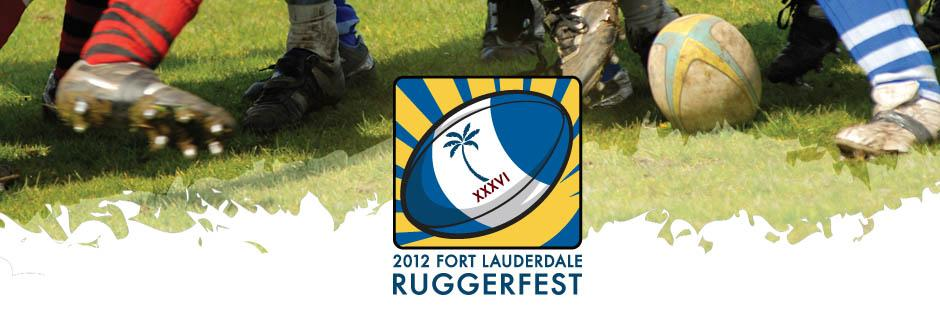
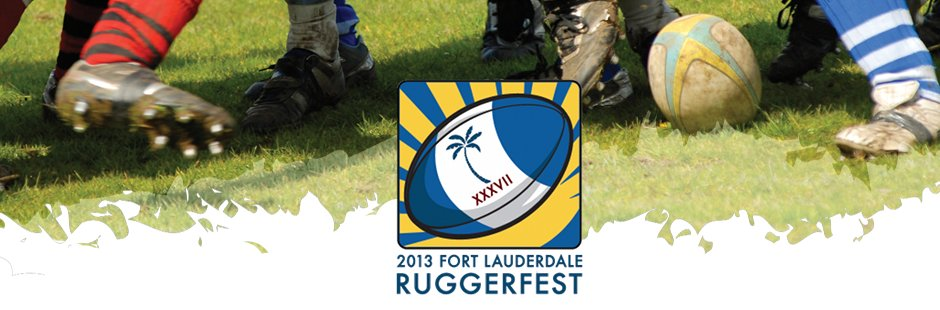
Updated text and graphics to Ruggerfest 2013. Changed copyright on pages. Re-enabled registration.

Changed region(s): [[0.3702, 0.1452, 0.6479, 0.9581]]

diff --git a/rf/templates/register.html b/rf/templates/register.html
@@ -12,14 +12,116 @@
 <div class="container">
     <div class="content">
         <div class="page-header">
-            <h1>Ruggerfest 2012 registration is now closed.</h1>
-            <h2>Please come back later this year and register for 2013.</h2>
+            <h1>Ruggerfest 2013 Registration</h1>
         </div>
         <div class="row">
+            <div class="span16">
+                {% if form.errors %}
+                <div class="alert-message error">
+                    <a class="close" href="#">&times;</a>
+                    <p><strong>Oh snap!</strong> There are some errors below</p>
+                    <!-- for debugging
+                    <p>{{form.errors}}</p>
+                    -->
+                </div>
+                {% endif %}
+                <form action="/register/" method="post">
+                    {% csrf_token %}
+
+                    <fieldset>
+                        <legend>Team Information</legend>
+
+                        <div class="clearfix {% if form.teamname.errors %} error {% endif %}">
+                            <label for="xlInput {% if form.teamname.errors %} errorInput {% endif %}">{{form.teamname.label}}</label>
+                            <div class="input">
+                                {% if form.teamname.errors %}
+                                    <div class="error">
+                                        {{ form.teamname }}
+                                    </div>
+                                {% else %}
+                                    {{ form.teamname }}
+                                {% endif %}
+
+                                {% if form.teamname.errors %}
+                                    <span class="help-inline">{{ form.teamname.help_text }}</span>
+                                {% endif %}
+                            </div>
+                        </div><!-- /clearfix -->
+
+                        <div class="clearfix">
+                            <label for="normalSelect">{{form.division.label}}</label>
+                            <div class="input">
+                                {{ form.division }}
+                            </div>
+                        </div><!-- /clearfix -->
+
+                        <div class="clearfix {% if form.captain.errors %} error {% endif %}">
+                            <label for="xlInput {% if form.captain.errors %} errorInput {% endif %}">{{form.captain.label}}</label>
+                            <div class="input">
+                                {% if form.captain.errors %}
+                                    <div class="error">
+                                        {{ form.captain }}
+                                    </div>
+                                {% else %}
+                                    {{ form.captain }}
+                                {% endif %}
+
+                                {% if form.captain.errors %}
+                                    <span class="help-inline">{{ form.captain.help_text }}</span>
+                                {% endif %}
+                            </div>
+                        </div><!-- /clearfix -->
+
+                        <div class="clearfix {% if form.email.errors %} error {% endif %}">
+                            <label for="xlInput {% if form.email.errors %} errorInput {% endif %}">
+                                {{form.email.label}}
+                            </label>
+                            <div class="input">
+                                {% if form.email.errors %}
+                                    <div class="error">
+                                        {{ form.email }}
+                                    </div>
+                                {% else %}
+                                    {{ form.email }}
+                                {% endif %}
+
+                                {% if form.email.errors %}
+                                    <span class="help-inline">{{ form.email.help_text }}</span>
+                                {% endif %}
+                            </div>
+                        </div><!-- /clearfix -->
+
+                        <div class="clearfix {% if form.phone_number.errors %} error {% endif %}">
+                            <label for="xlInput {% if form.phone_number.errors %} errorInput {% endif %}">
+                                {{form.phone_number.label}}
+                            </label>
+                            <div class="input">
+                                {% if form.phone_number.errors %}
+                                    <div class="error">
+                                        {{ form.phone_number }}
+                                    </div>
+                                {% else %}
+                                    {{ form.phone_number }}
+                                {% endif %}
+
+                                {% if form.phone_number.errors %}
+                                    <span class="help-inline">{{ form.phone_number.help_text }}</span>
+                                {% endif %}
+                            </div>
+                        </div><!-- /clearfix -->
+
+                        <div class="actions">
+                            <input type="submit" class="btn primary" value="Submit">&nbsp;<button type="reset" class="btn"
+                                >Clear</button>
+                        </div>
+
+                    </fieldset>
+                </form>
+            </div> <!-- span16 -->
         </div> <!-- row -->
     </div> <!-- content -->
     <footer>
-    <p>&copy; Fort Lauderdale Rugby Football Club 2011-2012</p>
+    <p>&copy; Fort Lauderdale Rugby Football Club</p>
     </footer>
 </div> <!-- /container -->
 

diff --git a/rf/templates/home.html b/rf/templates/home.html
@@ -12,9 +12,9 @@
             <div class="span9">
                 <div class="brown">
                     <div class="white">
-                        <h3>ABOUT RUGGERFEST 2012</h3>
+                        <h3>ABOUT RUGGERFEST 2013</h3>
                         <div class="boxtext">
-                            The 36th Annual Ruggerfest is attracting international teams and the best competition in the United States. Ruggerfest features mens club and premier, women’s club, men and women’s collegiate, old boys, touch and high school rugby. Why play rugby in the cold? Come to sunny Florida for a weekend of rugby and a swim at the beach.
+                            The 37th Annual Ruggerfest is attracting international teams and the best competition in the United States. Ruggerfest features mens club and premier, women’s club, men and women’s collegiate, old boys, touch and high school rugby. Why play rugby in the cold? Come to sunny Florida for a weekend of rugby and a swim at the beach.
                         </div>
                     </div>
                     <br/>
@@ -25,11 +25,12 @@
                     <div class="white">
                         <div class="boxtext">
                             <ul>
-                                <li>International Touring Sides</li>
-                                <li>Men’s Premiere Exhibition Game</li>
-                                <li>HS Exhibition Games</li>
-                                <li>International Touch Tournament</li>
-                                <li>Best Rugby Social on the East Coast!!!</li>
+				<li>International Touring Side</li>
+				<li>Men's Premiere Exhibition Game</li>
+				<li>Old Boys Championship</li> 
+				<li>Boys &amp; Girls HS Ruggerfest Challenge</li>
+				<li>International Touch Tournament</li>
+				<li>Excellent Rugby Social!</li>
                             </ul>
                         </div>
                     </div>
@@ -40,7 +41,7 @@
                     <br/>
                     <div class="white">
                         <div class="boxtext">
-                            <strong>February 25 and 26th 2012.</strong> Central Broward Regional Park.
+                            <strong>February 22-24th 2013.</strong> Central Broward Regional Park.
                             3700 North West 11th Place, Lauderhill, Florida 33311.
                         </div>
                         <div class="boxtext">
@@ -81,8 +82,8 @@
                         <h3>ADDITIONAL LINKS / INFO</h3>
                         <div class="boxtext">
                             <ul>
-                                <li>Questions about registration? Contact <a href="mailto:michelle@peytonbolin.com">michelle@peytonbolin.com</a>.</li>
-                                <li>Interested in sponsoring? Contact <a href="mailto:jane@peytonbolin.com">jane@peytonbolin.com</a>.</li>
+                                <li>Registration questions? Contact <a href="mailto:janefbolin@me.com">janefbolin@me.com</a>.</li>
+                                <li>Interested in sponsoring? Contact <a href="mailto:janefbolin@me.com">janefbolin@me.com</a>.</li>
                                 <li>General questions about the tournament? Contact <a href="mailto:toby@ftlrugby.com">toby@ftlrugby.com</a>.</li>
                             </ul>
                         </div>
@@ -98,7 +99,7 @@
                             <div class="reglink">
                                 <a href="/register/">
                                     <p>CLICK HERE TO REGISTER NOW!</p>
-                                    <p>$50 discount if two or more teams enter from a club. Fees increase by $100 after Feb 15th, 2012.</p>
+                                    <p>$50 discount if two or more teams enter from a club. Fees increase by $100 after Feb 1st, 2013.</p>
                                 </a>
                             </div>
                         </div>
@@ -108,7 +109,7 @@
         </div> <!-- row -->
     </div>
     <footer>
-    <p>&copy; Fort Lauderdale Rugby Football Club 2011-2012</p>
+    <p>&copy; Fort Lauderdale Rugby Football Club</p>
     </footer>
 </div> <!-- /container -->
 

diff --git a/rf/templates/brackets.html b/rf/templates/brackets.html
@@ -12,16 +12,23 @@
 <div class="container">
     <div class="content">
         <div class="page-header">
-            <h1>Ruggerfest 2012 Brackets</h1>
+            <h1>Ruggerfest 2013 Brackets</h1>
         </div>
         <div class="row">
             <div class="span16">
-                <img src="/staticfiles/images/ruggerfest_2012_brackets.jpg" alt="">
+                <div class="brown">
+            	    <div class="white">
+                        <h3>Ruggerfest 2013 Brackets</h3>
+            	        <div class="boxtext">
+	                    Brackets will be updated as teams enter. Please check back periodically for the updated bracket schedule. Brackets include: Premier Men, Club Men, Women's Club, Collegiate Men & Women (if enough teams register in advance), Old Boys Championship Over 40, Over 50 and Over 55.  Old Boys Championship begin play on Friday night and finishes on Saturday evening. All other brackets play Saturday and Sunday.
+            	        </div> <!-- boxtext -->
+            	    </div> <!-- white -->
+            	</div> <!-- brown -->
             </div> <!-- span16 -->
         </div> <!-- row -->
     </div> <!-- content -->
     <footer>
-    <p>&copy; Fort Lauderdale Rugby Football Club 2011-2012</p>
+    <p>&copy; Fort Lauderdale Rugby Football Club</p>
     </footer>
 </div> <!-- /container -->
 

diff --git a/rf/templates/paypal.html b/rf/templates/paypal.html
@@ -12,7 +12,7 @@
 <div class="container">
     <div class="content">
         <div class="page-header">
-            <h1>Ruggerfest 2012 Registration Payment</h1>
+            <h1>Ruggerfest 2013 Registration Payment</h1>
         </div>
         <div class="row">
             <div class="span16">
@@ -48,7 +48,7 @@
 
 <form action="https://www.paypal.com/cgi-bin/webscr" method="post">
     <input type="hidden" name="cmd" value="_s-xclick">
-    <input type="hidden" name="hosted_button_id" value="6KSZSZ5AM874A">
+    <input type="hidden" name="hosted_button_id" value="EUC7XZQDYD8GE">
     <div class="input">
         <input type="hidden" name="on0" value="Division">
         <select name="os0">
@@ -86,7 +86,7 @@
         </div> <!-- row -->
     </div> <!-- content -->
     <footer>
-    <p>&copy; Fort Lauderdale Rugby Football Club 2011-2012</p>
+    <p>&copy; Fort Lauderdale Rugby Football Club</p>
     </footer>
 </div> <!-- /container -->
 

diff --git a/rf/templates/base.html b/rf/templates/base.html
@@ -3,7 +3,7 @@
   <head>
     <meta charset="utf-8">
     <title>Fort Lauderdale Ruggerfest</title>
-    <meta name="description" content="Fort Lauderdale Ruggerfest 2012">
+    <meta name="description" content="Fort Lauderdale Ruggerfest 2013">
     <meta name="author" content="Ola Nordstrom">
 
     <!-- Le HTML5 shim, for IE6-8 support of HTML elements -->

diff --git a/rf/templates/500.html b/rf/templates/500.html
@@ -15,7 +15,7 @@
     </div>
 
     <footer>
-    <p>&copy; JM Lexus 2011</p>
+    <p>&copy; Fort Lauderdale Rugby Football Club</p>
     </footer>
 
 </div> <!-- /container -->

diff --git a/rf/templates/404.html b/rf/templates/404.html
@@ -15,7 +15,7 @@
     </div>
 
     <footer>
-    <p>&copy; JM Lexus 2011</p>
+    <p>&copy; Fort Lauderdale Rugby Footbal Club</p>
     </footer>
 
 </div> <!-- /container -->
